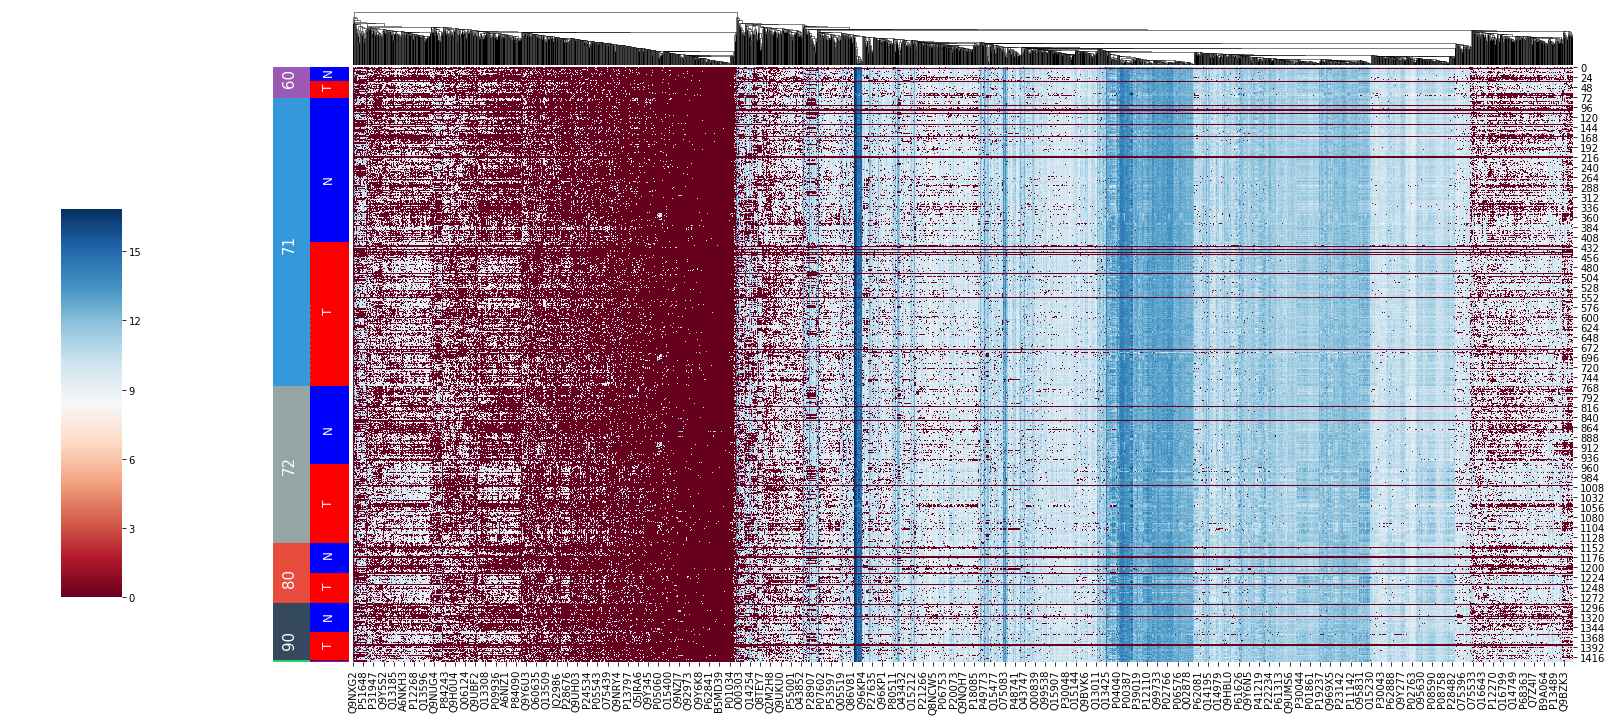
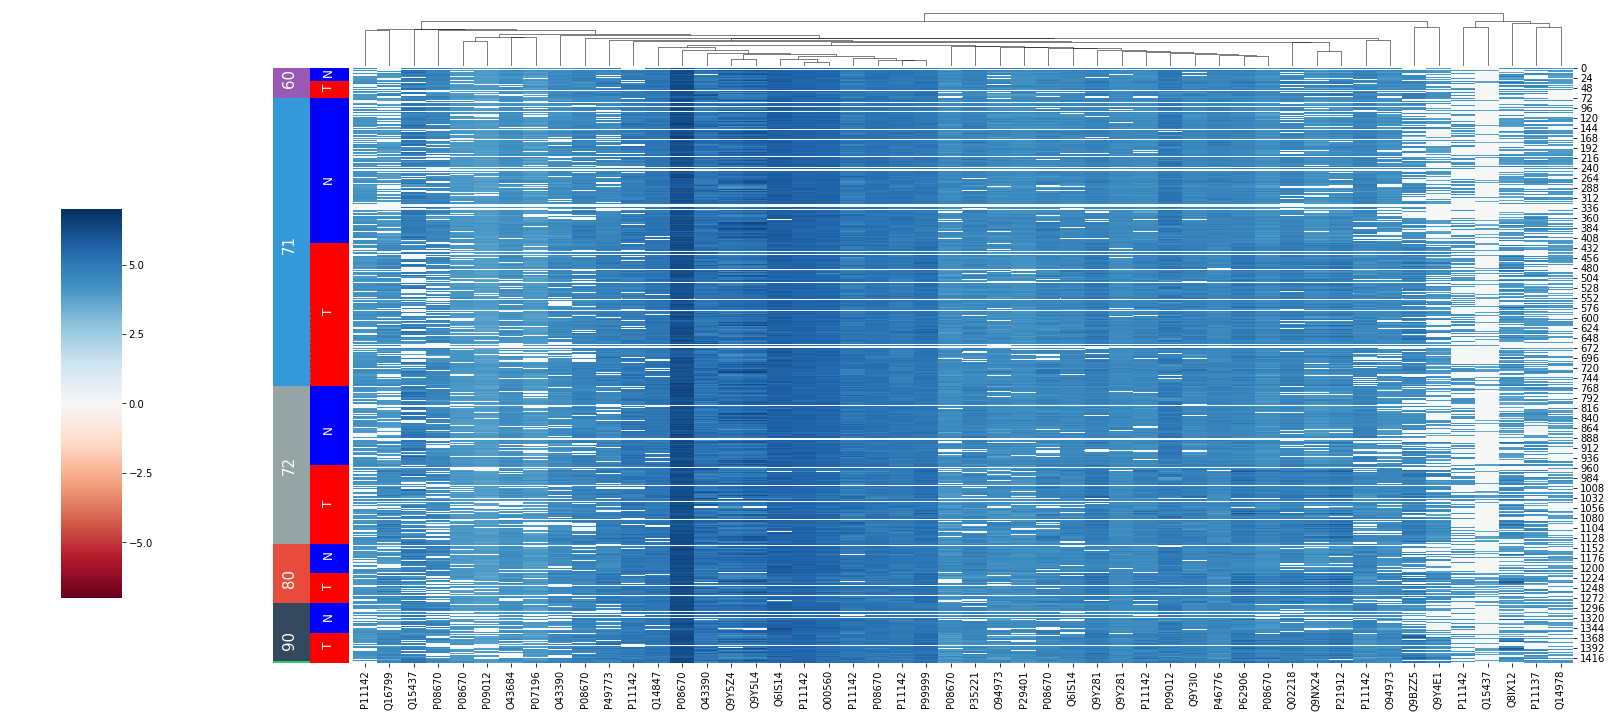
change the scales of colour bar

diff --git a/1-clustermap.py b/1-clustermap.py
@@ -43,7 +43,8 @@ g = sns.clustermap( np.log(df_for_clustermap),
                    #cbar_kws={'label': 'colorbar title'}, 
                    row_colors=[row_colors_lbs,row_colors_tius], 
                    cmap='RdBu',
-                   figsize=(28, 12)
+                   figsize=(28, 12),
+                   vmin=-7, vmax=7,
                    )
 
 
